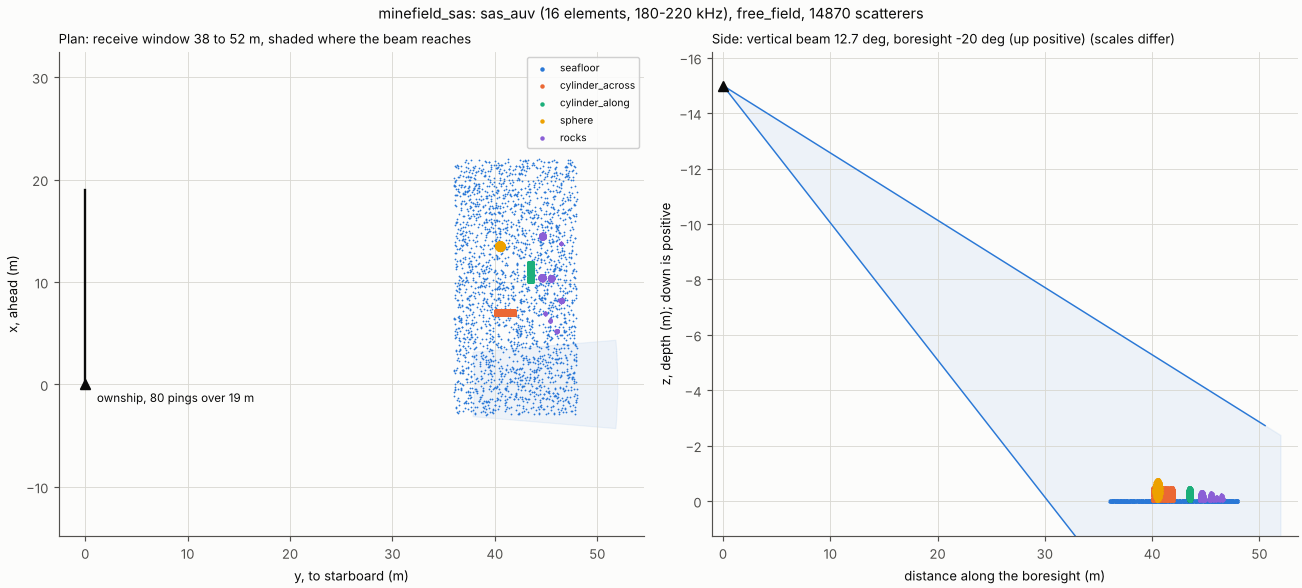
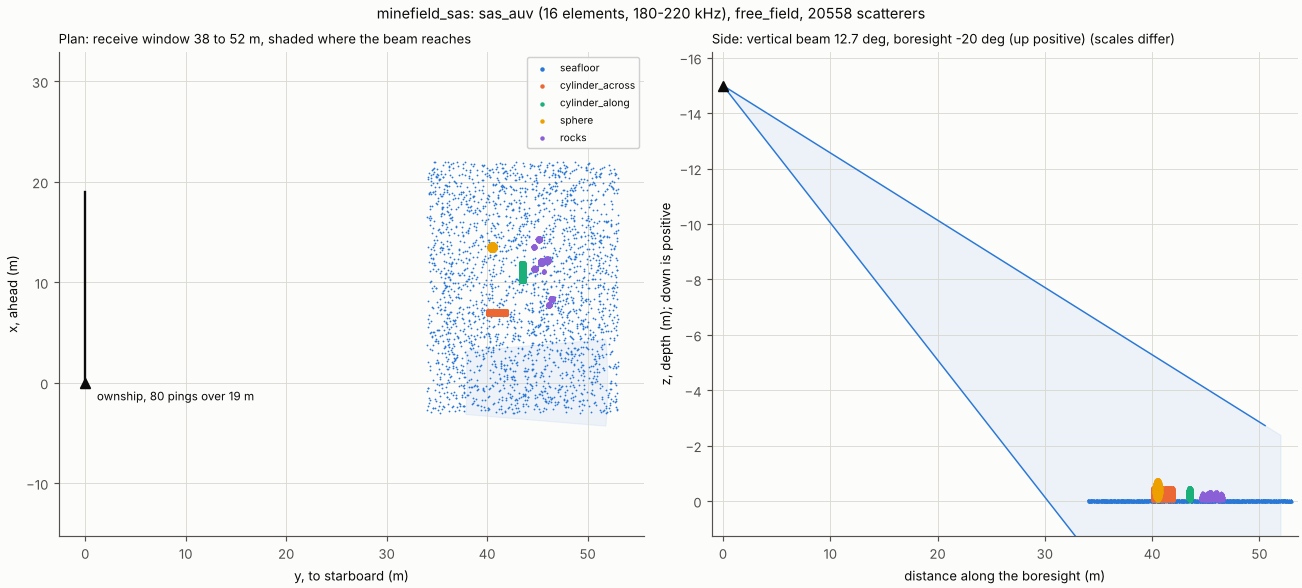
Architecture diagrams and ARCHITECTURE.md: device builds of D-122, D-148, D-150; Sensor Bridge path; multiscale detector, echo grouping
The backend table listed three stages as CPU only that have a CUDA translation unit and
left out the multiscale statistic, so test_architecture's pinned count of CUDA rows goes
from 7 to 10: a test expectation changes because the diagram was wrong. The wet-end
numbers of deployment.png are read from the sonar file (image unchanged). The two SAS
geometry diagrams redrawn with the wider seabed of D-171.

Claude-Session: https://claude.ai/code/session_01QhYtHta4HR3WascrfVLbGv

diff --git a/tools/architecture_diagrams.py b/tools/architecture_diagrams.py
@@ -31,7 +31,7 @@ STAGES = [
     ("Simulator", "Paths: free field, images, sediment refraction", "C++ (NumPy kept)", None, "sim.propagation(engine=)", "small next to synthesis"),
     ("Simulator", "Paths: Bellhop eigenrays", "external program", None, "sim.bellhop", "GPL, separate process"),
     ("Simulator", "Boundary reverberation: sum over sectors into channels", "C++ kernel (NumPy kept)", "same kernel, CUDA",
-     "sim.reverb(backend=, engine=)", "its FFTs and the power stage stay on the CPU"),
+     "sim.reverb(backend=, engine=)", "transforms and steering on the device (D-122); power stage and random draws on the CPU"),
     ("Simulator", "Ambient noise, hardware gain, ADC", "NumPy", None, "sim.noise, sim.receiver", ""),
     ("Conditioning", "Baseband conversion, pulse compression", "C++ (pocketfft)", "cuFFT", "recon.prepare(backend=)", ""),
     ("Conditioning", "Calibration, TVG, whitening, median TVG, DRC", "C++", None, "core.whiten, core.drc ...", "light"),
@@ -39,10 +39,14 @@ STAGES = [
     ("Conditioning", "Array calibration", "C++ (libs/live) and NumPy", None, "calibrate; core.calibrate_*_cpp", "once per trial"),
     ("Imaging", "Backprojection: fan, stripmap, volume, range x bearing", "C++ kernel, OpenMP", "same kernel, CUDA",
      "core.backproject(backend=), BpSession", "with ray culling; the bulk of processing"),
-    ("Imaging", "Far-field beamformer, MVDR", "C++ (libs/live) and NumPy", None, "beamformer: farfield | mvdr; flank",
-     "the live chain's default is the kernel"),
-    ("Imaging", "Motion estimation (SAS)", "C++ and Ceres", None, "motion", "BSD build of Ceres"),
+    ("Imaging", "Far-field beamformer, MVDR", "C++ (libs/live) and NumPy", "same templates, CUDA", "beamformer: farfield | mvdr; flank",
+     "D-122; the live chain's default is the kernel"),
+    ("Imaging", "Motion estimation (SAS): delays between pings", "NumPy (default), C++", "CUDA (opt-in)", "MotionOptions.delay_backend",
+     "D-148; slower than the host on an L4"),
+    ("Imaging", "Motion estimation (SAS): the solve", "C++ and Ceres", None, "motion", "BSD build of Ceres"),
     ("Detection", "CFAR", "C++ kernel", "same kernel, CUDA", "detect.cfar(backend=)", ""),
+    ("Detection", "Multiscale detector: the cell statistic", "C++ (libs/live) and NumPy", "same kernels, CUDA",
+     "cell_statistic: multiscale (the live chain's default)", "D-150; flagging and grouping on the host"),
     ("Detection", "Sparse Bayesian bearings (active gates, passive)", "C++ kernels, OpenMP", "same kernels, CUDA",
      "core.doa_gate(backend=), core.doa_passive, doa: sbl", "2.5x on an L4"),
     ("Detection", "Stacked rows: per-row maps, elevation at each detection", "C++ (libs/live) and NumPy", "same kernel, CUDA",
@@ -76,7 +80,7 @@ def draw_dataflow(path):
     fig, ax = canvas(15.5, 7.6)
     ax.text(0.2, 7.3, "Sources: each yields ping records", color=MUTED, fontsize=10)
     srcs = [("Simulator\nscenario YAML", AQUA), ("Container file\n(.h5) / a tap", AQUA), ("WAV + sidecar\n(file or directory)", AQUA),
-            ("Board stream\n(UDP blocks)", AQUA), ("Ultrasound rig\n(NVIDIA reference)", AQUA)]
+            ("Board stream: UDP blocks,\nor Sensor Bridge frames", AQUA), ("Ultrasound rig\n(NVIDIA reference)", AQUA)]
     for i, (t, c) in enumerate(srcs):
         box(ax, (0.2, 6.0 - i * 1.15), 2.3, 0.85, t, color=c)
         arrow(ax, (2.5, 6.42 - i * 1.15), (3.2, 3.9))
@@ -140,20 +144,23 @@ def draw_backends(path):
     plt.close(fig)
 
 
-def draw_deployment(path):
+def draw_deployment(path, sonar="popoto_long_range", deploy="popoto_vehicle"):
+    """The one-row deployment. The wet end's numbers are read from the sonar file (buildspec.describe_shipped), not typed."""
+    from gpusonar import buildspec
+    d = buildspec.describe_shipped(sonar, deploy)
     fig, ax = canvas(15.5, 6.6)
     ax.text(0.2, 6.3, "Wet end", color=MUTED, fontsize=10)
-    box(ax, (0.2, 4.9), 2.2, 0.9, "Projector + amplifier\n4-6 kHz, 197 dB", color=GRID, text_color=INK)
-    box(ax, (0.2, 3.5), 2.2, 0.9, "32 hydrophones\n15 cm pitch", color=GRID, text_color=INK)
+    box(ax, (0.2, 4.9), 2.2, 0.9, f"Projector + amplifier\n{d['band_hz'][0] / 1e3:g}-{d['band_hz'][1] / 1e3:g} kHz, {d['source_level_db']:g} dB", color=GRID, text_color=INK)
+    box(ax, (0.2, 3.5), 2.2, 0.9, f"{d['channels']} hydrophones\n{100 * d['pitch_m']:.3g} cm pitch", color=GRID, text_color=INK)
     box(ax, (0.2, 2.1), 2.2, 0.9, "shared reference\n(sync bursts)", color=GRID, text_color=INK)
-    for i in range(4):
-        box(ax, (3.2, 5.0 - i * 1.0), 1.9, 0.75, f"Popoto board {i + 1}\n8 inputs, own clock", color=YELLOW, text_color=INK, fs=8)
+    for i in range(d["n_boards"]):
+        box(ax, (3.2, 5.0 - i * 1.0), 1.9, 0.75, f"Popoto board {i + 1}\n{d['inputs_per_board']} inputs, own clock", color=YELLOW, text_color=INK, fs=8)
         arrow(ax, (2.4, 3.95), (3.2, 5.37 - i * 1.0))
         arrow(ax, (2.4, 2.55), (3.2, 5.2 - i * 1.0), color=VIOLET, lw=0.8)
     ax.text(3.2, 6.3, "Capture", color=MUTED, fontsize=10)
     box(ax, (6.0, 4.6), 2.2, 0.9, "files: WAV + sidecar\n(wav_watch source)", color=AQUA, fs=8)
     box(ax, (6.0, 3.1), 2.2, 0.9, "or blocks over UDP\n(flank_udp source)", color=AQUA, fs=8)
-    for i in range(4):
+    for i in range(d["n_boards"]):
         arrow(ax, (5.1, 5.37 - i * 1.0), (6.0, 4.9 if i < 2 else 3.5))
     ax.text(8.9, 6.3, "Vehicle computer: tools/sonar_live.py, one YAML file", color=MUTED, fontsize=10)
     steps = ["record raw\npings (.h5)", "sync boards", "prepare", "beamform", "CFAR,\ncluster", "track,\nclassify"]
@@ -189,13 +196,13 @@ LIVE_STAGES = [
     ("prepare", "baseband,\npulse compression", "both", True, "cuFFT on the device"),
     ("rows", "split into rows\n(from positions)", "both", False, "one row: skipped"),
     ("map", "range x bearing map\nper row, powers added", "both", True, "backprojection kernel"),
-    ("cfar", "CFAR on the\nsummed map", "both", True, "kernel, host or CUDA"),
+    ("cfar", "detect on summed map:\nmultiscale (default)\nor CFAR", "both", True, "statistic host or CUDA"),
     ("cluster", "cluster to\ndetections", "both", False, "tens of objects"),
     ("sbl", "doa: sbl  bearings\nat each range gate", "cpp", True, "<= 64 channels in a row"),
     ("elevation", "elevation: steer all rows\nat each detection;\ncandidates if repeats", "both", True, "backprojection kernel"),
     ("depth", "depth: attitude at arrival,\nfold, ray trace; sigma from\nnoise, roll, refraction", "both", False, "sound speed, water depth"),
     ("track", "tracker\n(range, bearing, depth)", "both", False, "ownship motion removed"),
-    ("classify", "classify: mover, static,\nmultipath", "both", False, ""),
+    ("classify", "classify: mover, static,\nline; echo grouping\n(multipath of its object)", "both", False, "bounces grouped to one object"),
     ("report", "report: JSON line\n(file, UDP)", "both", False, ""),
 ]
 

diff --git a/tests/python/test_architecture.py b/tests/python/test_architecture.py
@@ -17,7 +17,17 @@ _spec.loader.exec_module(arch)
 
 def test_stages_listed_with_a_gpu_implementation_take_a_backend():
     with_cuda = {stage for _, stage, _, cuda, _, _ in arch.STAGES if cuda}
-    assert len(with_cuda) == 7                                                     # six kernels' stages, and the stacked rows' elevation on the backprojection kernel
+    # Ten: six kernels' stages, the stacked rows' elevation on the backprojection kernel, and three the table had as CPU
+    # only although each has a CUDA translation unit (the expectation was 7 while the diagram was wrong): the far-field and
+    # MVDR beamformers (libs/live/src/beamform_cuda.cu, D-122), motion estimation's delays (libs/motion/src/delay_cuda.cu,
+    # D-148) and the multiscale detector's cell statistic (libs/live/src/detector_cuda.cu, D-150).
+    assert len(with_cuda) == 10
+    for unit in ("libs/live/src/beamform_cuda.cu", "libs/motion/src/delay_cuda.cu", "libs/live/src/detector_cuda.cu", "libs/sim/src/reverb_cuda.cu"):
+        assert (ROOT / unit).is_file(), unit
+    assert "backend" in inspect.signature(flank.farfield_beamform).parameters and "backend" in inspect.signature(flank.mvdr_beamform).parameters
+    assert "backend" in gs.core.live_multiscale_detect.__doc__                    # the multiscale statistic
+    from gpusonar import motion
+    assert "cuda" in motion.DELAY_BACKENDS and motion.MotionOptions().delay_backend == "numpy"   # opt-in device delays
     from gpusonar import elevation
     assert "backend" in inspect.signature(elevation.profile).parameters           # elevation steers with the backprojection kernel, host or CUDA
     assert "backend" in inspect.signature(__import__("gpusonar.sim.reverb", fromlist=["x"]).add_reverberation).parameters   # reverberation

diff --git a/docs/ARCHITECTURE.md b/docs/ARCHITECTURE.md
@@ -3,6 +3,12 @@
 How the pieces fit, where each runs, and how to get at the data between them.
 Diagrams are drawn by `tools/architecture_diagrams.py`.
 
+**Since D-160.** This file was written before decisions D-161 to D-181 and is kept as the
+overview. The current stage-by-stage description of the live chain, with every default, its
+config key and the decision behind it, is [`handoff/SOFTWARE.md`](handoff/SOFTWARE.md)
+(section 5; sections 2 to 4 for the layers, the repository map and the two engines). Where
+the two differ, that file and the code are right.
+
 ## One record, many sources, the same stages
 
 ![Data flow](architecture/dataflow.png)
@@ -22,6 +28,12 @@ Diagrams are drawn by `tools/architecture_diagrams.py`.
 | `flank_udp` | capture-board blocks arriving over UDP | `sources/flank_stream.py` |
 | `nvus_scanner` | the NVIDIA ultrasound reference's runtime | `sources/nvus_scanner.py` |
 | `picmus` | the PICMUS benchmark files | `sources/picmus.py` |
+
+  `scenario` and `tap` are read by `pipeline.py` itself (`_load_records`); the others are
+  registered sources (`sources/base.py` `register`, `make_source`). One more path is not a
+  `type`: Holoscan Sensor Bridge frames (`sources/hsb.py`, `tools/sonar_live_hsb.py`), the
+  `flank_udp` blocks as fixed-size frames through Sensor Bridge's receiver operator into the
+  live chain (`DEPLOYMENT.md`, "Through Holoscan Sensor Bridge's receiver").
 
 - **Stages** are library functions on records. Three things call them, and nothing else
   holds processing logic:
@@ -94,7 +106,9 @@ Diagrams are drawn by `tools/architecture_diagrams.py`.
   chain takes 18 ms a ping with bearings from the map and 0.48 s with SBL (`RESULTS.md`).
 - **Not on a GPU, and why.** Clustering, tracking and classification handle tens of
   objects per ping. Whitening, median TVG, DRC, board synchronisation and motion
-  estimation are CPU code (MVDR has a device path, `libs/live/src/beamform_cuda.cu`); none is the bottleneck of a chain that uses them. In the simulator,
+  estimation are CPU code (the far-field and MVDR beamformers have a device path, `libs/live/src/beamform_cuda.cu`, D-122;
+  so has motion estimation's delay measurement, `libs/motion/src/delay_cuda.cu`, opt-in by `MotionOptions.delay_backend`
+  and slower than the host on an L4, D-148 and `STATUS.md`, "Motion estimation limits so far"; its solve is CPU only); none is the bottleneck of a chain that uses them. In the simulator,
   reverberation's power against time and direction and its random draws stay on the CPU; on an L4 they leave
   the whole generator 2.2 to 4.1 times faster than the host, against 5.6 to 8.8 times for its
   device kernel alone (`RESULTS.md`, "Reverberation, before and after the batched kernels").
@@ -160,8 +174,8 @@ spectra of a recording gives passive bearing-time records (`sonar_live --passive
 - **What runs on a GPU** is drawn from `LIVE_STAGES` in `tools/architecture_diagrams.py` and checked
   by `tests/python/test_architecture.py`: conditioning, the maps, CFAR, the elevation steering
   (the same backprojection kernel) and the sparse Bayesian bearings. Measured on an L4 with
-  decimated pings of scenario size and the row heights before the 1.5 m change
-  (`benchmarks/gpu_benchmark_all_l4.md`, tree `e10b17f`): the C++ chain takes 0.015, 0.028 and
+  decimated pings of scenario size
+  (`benchmarks/gpu_benchmark_all_l4.md`, tree `e10b17f`, which has the 1.5 m row heights): the C++ chain takes 0.015, 0.028 and
   0.040 s a ping for one, two and three rows of 32, against 0.15, 0.31 and 0.46 s on that machine's
   eight CPU threads. The first run (`gpu_benchmark_all_l4_15f1121.md`) gave 0.010, 0.021 and
   0.031 s; the difference was the multiscale cell statistic (D-93), which then ran on the CPU. It now
@@ -176,7 +190,7 @@ spectra of a recording gives passive bearing-time records (`sonar_live --passive
   allocation per call (`..._3d666df.json`, another job); 12.7, 25.9 and 37.5 ms compiled with
   `--fmad=false` (`..._b2a918e.json`, a third job, same agreement). That is still 2.8 to 3.6 ms over the
   cell-mean detector: the map comes back to the host before the statistic sends it to the device again.
-  Raw pings at the boards' full rate through the C++ chain on a GPU: 0.48, 1.02 and 1.51 s for one,
+  Raw pings at the boards' full rate through the C++ chain on a GPU: 0.48, 1.03 and 1.49 s for one,
   two and three rows (`design/popoto_stage2.json`,
   `decimation.timing.cuda`; machine still loaded by the build, so upper figures).
 - **Passive** exists in the C++ library and program only.
@@ -209,7 +223,7 @@ real array's channel errors.
 | Path | What |
 | --- | --- |
 | `libs/core`, `libs/dsp`, `libs/recon`, `libs/sim`, `libs/detect`, `libs/io` | C++20 / CUDA: record, conditioning, backprojection, synthesis, CFAR, container file |
-| `libs/motion` | C++20 (host only): platform motion estimation, the Ceres solve of ASASIN Eq. 8 (`dpc_solver.hpp`, D-30), used by `python/gpusonar/motion.py`. Built only when a Ceres without SuiteSparse is found (`SONAR_CERES_DIR`, default `/opt/ceres-nosuitesparse`; `SONAR_ALLOW_SUITESPARSE=OFF` keeps a GPL-linked Ceres out); CMake prints `motion estimation ON/OFF` |
+| `libs/motion` | C++20; CUDA for the delay measurement only (`delay_cuda.cu`, D-148: opt-in, NumPy stays the default and the reference): platform motion estimation, the Ceres solve of ASASIN Eq. 8 (`dpc_solver.hpp`, D-30; host only), used by `python/gpusonar/motion.py`. Built only when a Ceres without SuiteSparse is found (`SONAR_CERES_DIR`, default `/opt/ceres-nosuitesparse`; `SONAR_ALLOW_SUITESPARSE=OFF` keeps a GPL-linked Ceres out); CMake prints `motion estimation ON/OFF` |
 | `libs/live`, `apps/sonar_live.cpp` | C++20: the long-range array's live chain and the standalone program `build/bin/sonar_live` |
 | `libs/holoscan_ops`, `apps/sonar_live_holoscan.cpp` | the same chain as C++ Holoscan operators and an application (`-DSONAR_BUILD_HOLOSCAN=ON`) |
 | `python/gpusonar/` | bindings and everything else: `sim/`, `sources/`, `recon/`, `pipeline.py`, `live.py`, `taps.py`, `detect.py`, `classify.py`, `flank.py`, `motion.py`, `sync.py`, `calibrate.py`, `simcal.py`, `holoscan_ops.py` |
